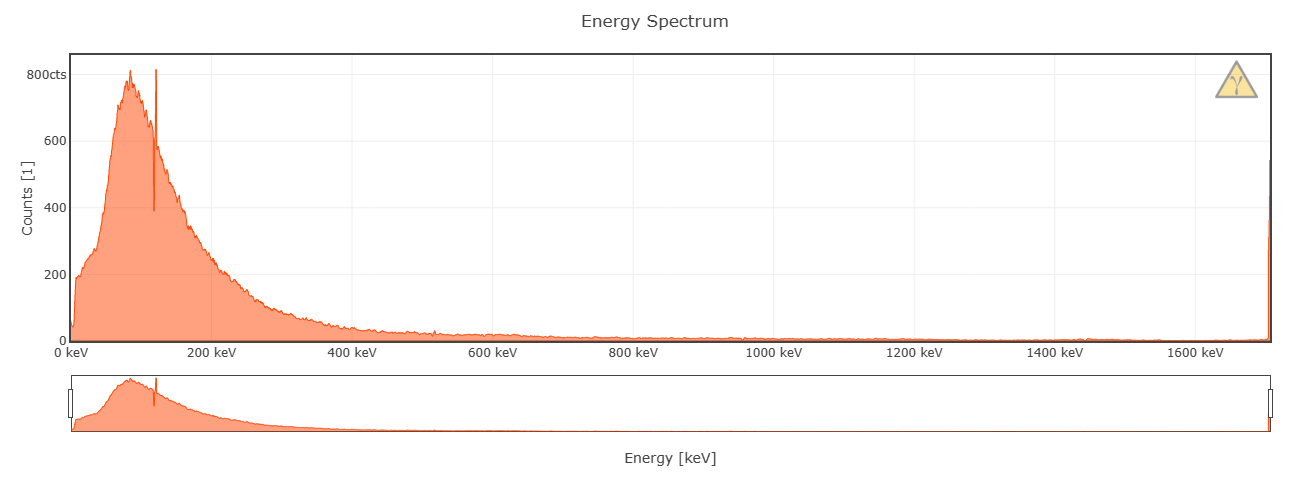
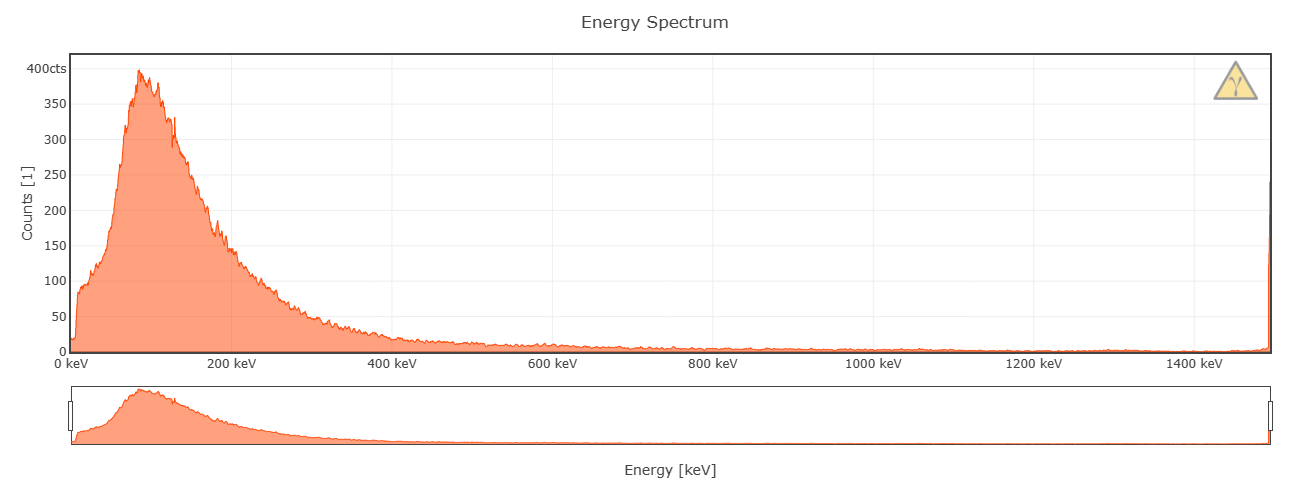
update example spectra

diff --git a/README.md b/README.md
@@ -79,7 +79,7 @@ If this doesn't help you, feel free to reach out and create an issue or open a d
 
 Here is a small collection of example spectra I could make quickly without putting much effort into the detector settings (threshold, SiPM voltage, software tweaks). I'm using the [Tiny MicroFC Breakout](https://github.com/OpenGammaProject/Tiny-MicroFC-Carrier-Board) and just a single SiPM (which isn't the optimal setup actually). In addition, neither the electronics nor the scintillator and sample were shielded from EMI or background radiation whatsoever. So as you can see the detector is actually pretty robust in that regard.
 
-Background spectrum (4h) with no samples:
+Background spectrum (2h) with no samples:
 
 ![Background spectrum](docs/bg.png)
 
@@ -99,7 +99,7 @@ Spectrum of a Na-22 test source, about ~2 µCi made with a Rev.2 board (worse en
 
 ![Na-22](docs/na-22.png)
 
-Spectrum (4h) of about 100 grams of mushrooms still containing the isotope Cs-137 from the Chernobyl disaster. You can clearly see the gamma peak at 662 keV and the ~32 keV X-ray peak. Resolution of the 662 keV peak was ~10%, because I was only using a single SiPM with an old 9% scintillator:
+Spectrum (2h) of about 100 grams of mushrooms still containing the isotope Cs-137 from the Chernobyl disaster. You can clearly see the gamma peak at 662 keV and the ~32 keV X-ray peak. Resolution of the 662 keV peak was ~8.6%, using only a single SiPM and an old NaI scintillator:
 
 ![Mushroom "test source"](docs/mushrooms.png)
 
